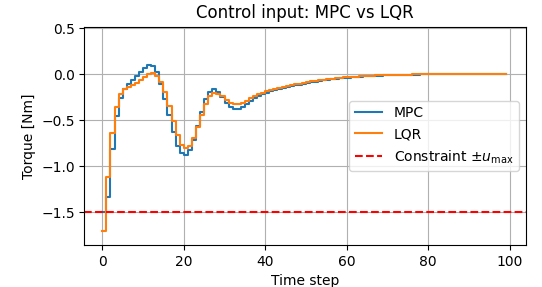
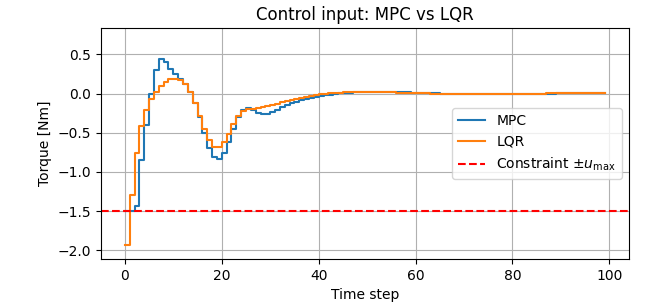
Last update to tuning

diff --git a/NL_MPC_with_noise.py b/NL_MPC_with_noise.py
@@ -173,7 +173,7 @@ def compare_noise_levels():
         out = run_mpc_with_measurement_noise(
             q_theta1=1,
             q_delta_theta2=200,
-            q_theta1_dot=10,
+            q_theta1_dot=1,
             q_theta2_dot=1,
             r_input=1,
             x0=[0.0, np.deg2rad(20), 0.0, 0.0],
@@ -181,7 +181,7 @@ def compare_noise_levels():
             theta1_max=np.deg2rad(90),
             theta2_dev_max=np.deg2rad(90),
             noise_std=case["noise_std"],
-            N=30,
+            N=20,
             steps=100,
             random_seed=1,
         )

diff --git a/run_Nonlinear_LQR.py b/run_Nonlinear_LQR.py
@@ -73,7 +73,7 @@ if __name__ == "__main__":
     # Same parameters for both controllers
     q_theta1 = 1
     q_delta_theta2 = 200
-    q_theta1_dot = 10
+    q_theta1_dot = 1
     q_theta2_dot = 1
     r_input = 1
     x0 = [0.0, np.deg2rad(30), 0.0, 0.0]
@@ -104,7 +104,7 @@ if __name__ == "__main__":
         u_max=u_max,
         theta1_max=np.deg2rad(90),
         theta2_dev_max=np.deg2rad(90),
-        N=30,
+        N=20,
         steps=steps,
     )
 

diff --git a/Nonlinear_MPC_tuning.py b/Nonlinear_MPC_tuning.py
@@ -147,8 +147,8 @@ def compare_parameter_cases(save_fig=False):
         "q_delta_theta2": 200,  
         "q_theta1": 1,      
         "q_theta2_dot": 1,
-        "q_theta1_dot": 10,
-        "N": 30
+        "q_theta1_dot": 1,
+        "N": 20
     }
 
     studies = [
